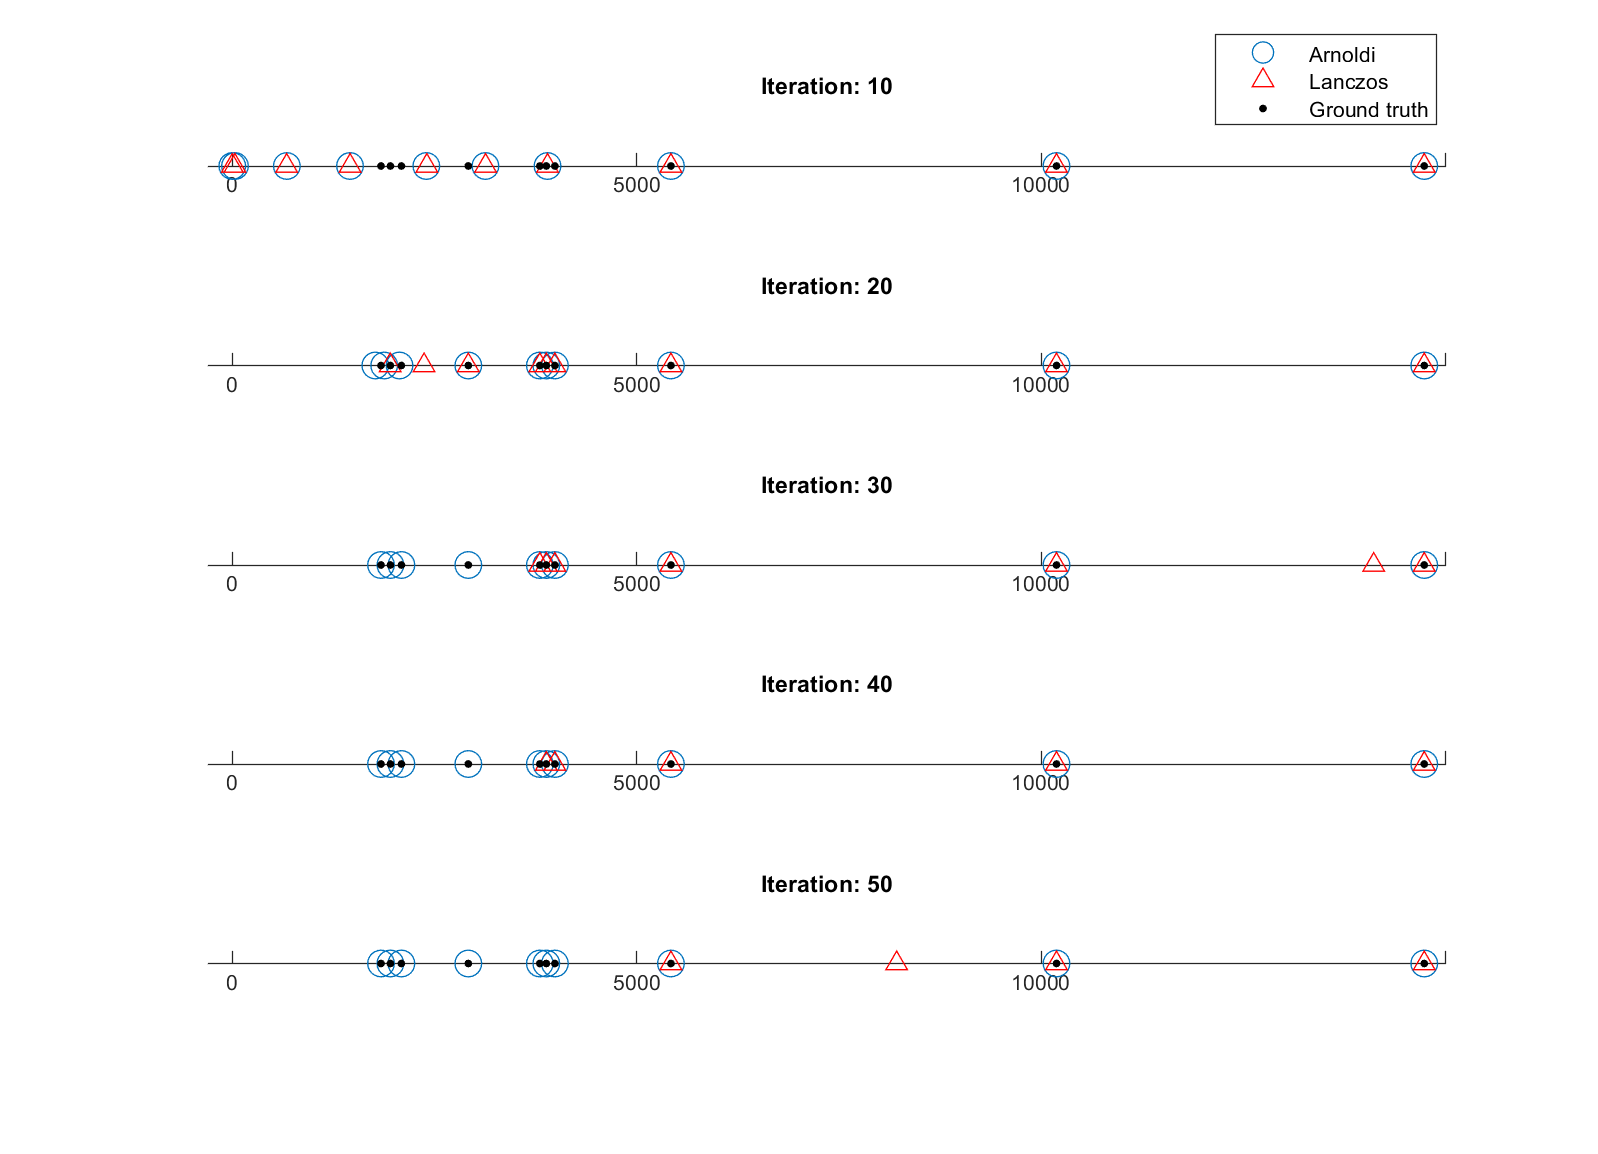
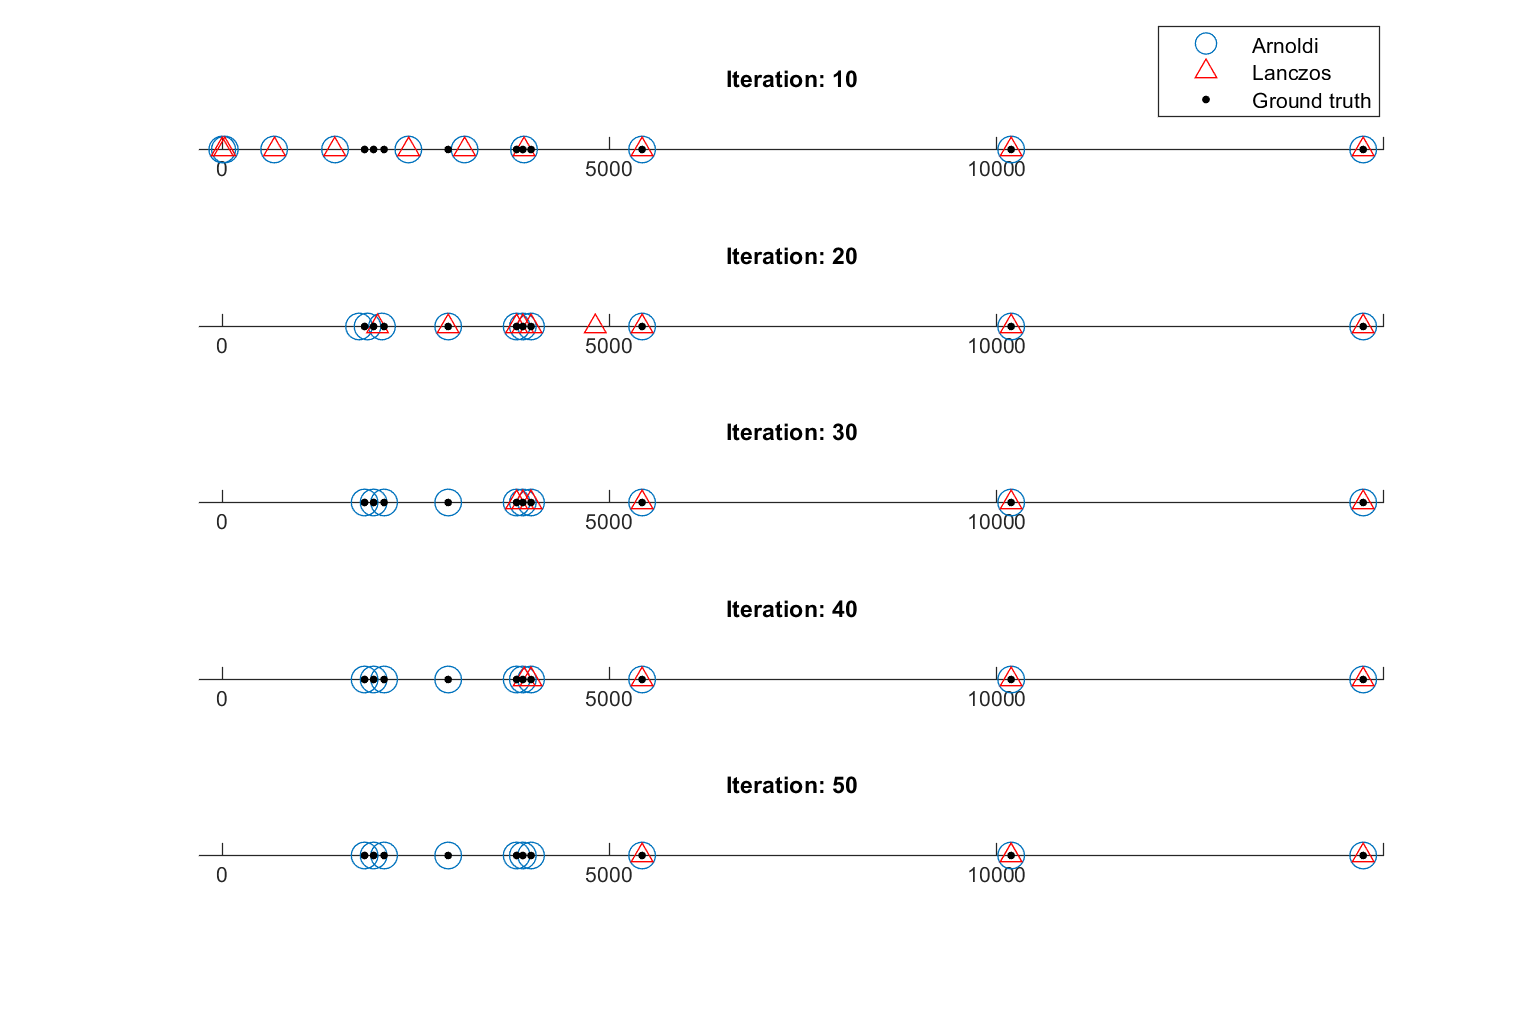
Add files via upload

diff --git a/matrix_computation/hw4_krylov_method.m b/matrix_computation/hw4_krylov_method.m
@@ -1,15 +1,14 @@
 clc;clear;
-addpath(genpath('utils')); verbose = true;
+addpath(genpath('utils')); verbose=true;
 
 E = load('data/facebook.txt');
 A = getLaplacian(E, verbose);
 
 m = 30;
-verbose = true;
 
-eps = 1e-14;
+eps = 1e-7;
 iter = 1e+3;
-sigma = 0.01;
+sigma = -0.01;
 n = size(A, 1);
 
 A_shift = A - sigma*speye(n);
@@ -36,11 +35,13 @@ eigval = diag(sigma + 1./diag(eigval));
 check = norm(A*eigvec - eigvec*eigval,2);
 fprintf("norm(Ax-λx): %f \n\n", check);
 
-% fprintf("Iterative method:\n")
-% [eigvec, eigval] = eigs(@(x)Solve_Shift_LS(x, A_shift, prec_M1, prec_M2, linear_solver), n, m, 'largestabs', Tolerance=eps, MaxIterations=iter, IsFunctionSymmetric=1);
-% eigval = diag(sigma + 1./diag(eigval));
-% check = norm(A*eigvec - eigvec*eigval,2);
-% fprintf("norm(Ax-λx): %f \n\n", check);
+tol=1e-10; maxit=1e+5;
+
+fprintf("Iterative method:\n")
+[eigvec, eigval] = eigs(@(x)pcg_method(x, A_shift, tol, maxit), n, m, 'largestabs', Tolerance=eps, MaxIterations=iter, IsFunctionSymmetric=1);
+eigval = diag(sigma + 1./diag(eigval));
+check = norm(A*eigvec - eigvec*eigval,2);
+fprintf("norm(Ax-λx): %f \n\n", check);
 
 
 function sol = GE_Shift_LS(b, A)

diff --git a/matrix_computation/hw5_pcg_method.m b/matrix_computation/hw5_pcg_method.m
@@ -1,0 +1,47 @@
+clc;clear;
+addpath(genpath('utils')); verbose = true;
+
+E = load('data/facebook.txt');
+A = getLaplacian(E, verbose);
+
+rng(42);
+
+tol=1e-10; 
+maxit=1e+5;
+
+sigma = -0.01;
+n = size(A, 1);
+
+A_shift = A - sigma*speye(n);
+b = randn(n,1);
+
+fprintf("CG method:\n")
+tic;
+[sol,~,~,iter] = pcg_method(b, A_shift, tol, maxit);
+toc;
+check = norm(A_shift*sol-b,2);
+fprintf("iterations: %.0f\n", iter)
+fprintf("norm(Ax-b): %f \n\n", check);
+
+
+prec_M = sparse(1:n, 1:n, diag(A_shift));
+
+fprintf("CG method with preconditioning:\n")
+tic;
+[sol,~,~,iter] = pcg_method(b, A_shift, tol, maxit, prec_M);
+toc;
+check = norm(A_shift*sol-b,2);
+fprintf("iterations: %.0f\n", iter)
+fprintf("norm(Ax-b): %f \n\n", check);
+
+
+prec_M1 = sparse(1:n, 1:n, diag(A_shift).^(0.5));
+prec_M2 = prec_M1;
+
+fprintf("CG method with left and right preconditioning:\n")
+tic;
+[sol,~,~,iter] = pcg_method(b, A_shift, tol, maxit, prec_M1, prec_M2);
+toc;
+check = norm(A_shift*sol-b,2);
+fprintf("iterations: %.0f\n", iter)
+fprintf("norm(Ax-b): %f \n\n", check);

diff --git a/matrix_computation/krylov_plot.m b/matrix_computation/krylov_plot.m
@@ -19,7 +19,8 @@ for iterations = 10:10:50
     plot(eigval_H, zeros(k,1), 'o', MarkerSize=10, Color="#0072BD"); 
     plot(eigval_T, zeros(k,1), '^', MarkerSize=7, Color="red"); 
     plot(eigval_A, zeros(k,1), '.', MarkerSize=10, Color="black"); 
-    title("Iteration: "+iterations); axis([-300 15000 -1 1]);
+    title("Iteration: "+iterations); 
+    axis([-300 15000 -1 1]);
 
     if iterations == 10
         lgnd = legend({'Arnoldi', 'Lanczos', 'Ground truth'},'Position', [0.78 0.88 0.1 0.1]);

diff --git a/matrix_computation/utils/pcg_method.m b/matrix_computation/utils/pcg_method.m
@@ -1,0 +1,12 @@
+function [sol, flag, RelRes, ITER] = pcg_method(b, shift_L, tol, maxit, prec_M1, prec_M2)
+
+    if (nargin == 4)
+        [sol, flag, RelRes, ITER] = pcg(shift_L, b, tol, maxit);
+    elseif (nargin == 5)
+        [sol, flag, RelRes, ITER] = pcg(shift_L, b, tol, maxit, prec_M1);
+    elseif (nargin == 6)
+        [sol, flag, RelRes, ITER] = pcg(shift_L, b, tol, maxit, prec_M1, prec_M2);
+    else
+        fprintf("input variables eror")
+    end
+end

diff --git a/matrix_computation/krylov.m b/matrix_computation/krylov.m
@@ -1,7 +1,7 @@
 clc;clear; 
-addpath(genpath('utils'));
+addpath(genpath('utils')); verbose = true;
 
-E = load('data/facebook.txt'); verbose = true;
+E = load('data/facebook.txt');
 A = getLaplacian(E, verbose);
 
 k = 10;
